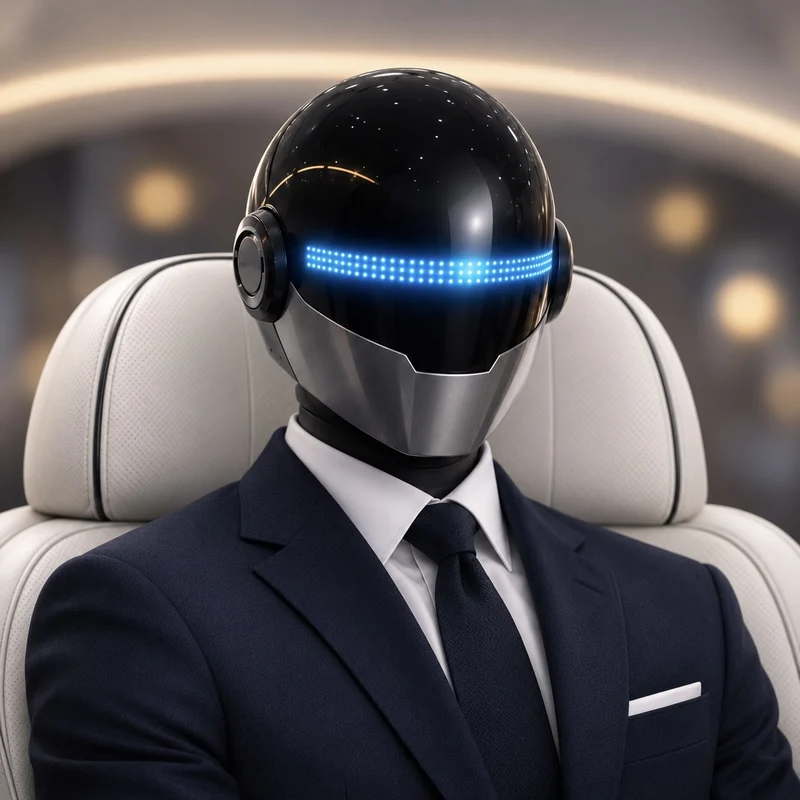
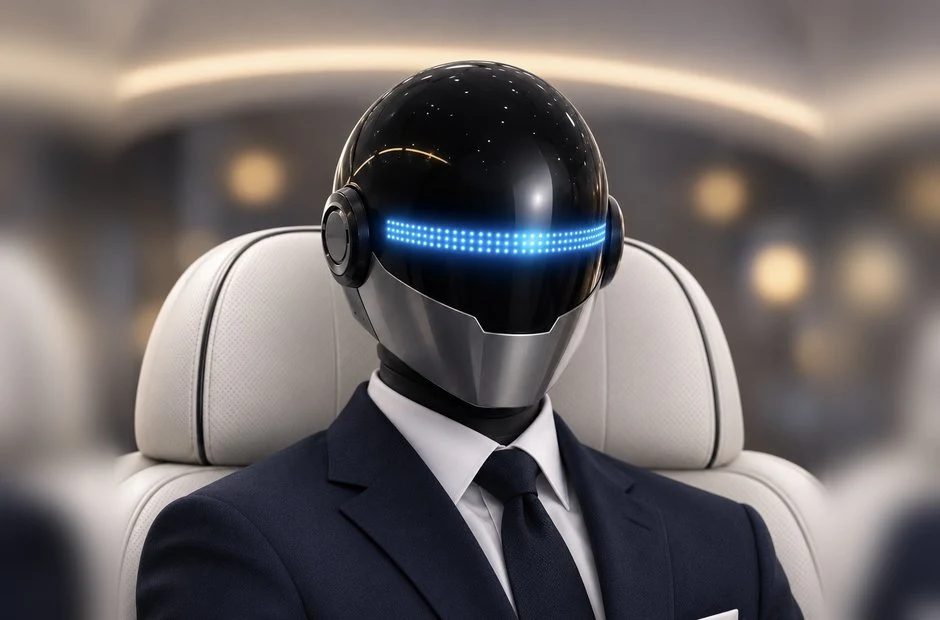
Agent call: back to horizontal frame, agent smaller inside it
Claude-Session: https://claude.ai/code/session_01BhYsySb1bmSKj6zxDYmtro

diff --git a/static/css/site.css b/static/css/site.css
@@ -102,13 +102,13 @@ button { font: inherit; color: inherit; background: none; border: 0; padding: 0;
 
 /* AI agent tile: a phone with a live chat rising from the bottom */
 .phone-wrap { display: flex; justify-content: center; align-items: flex-start; margin-top: 34px; }
-.phone { width: min(330px, 84vw); height: 700px; border-radius: 52px 52px 0 0; background: #fff; border: 11px solid #1d1d1f; border-bottom: 0; padding: 20px 14px; text-align: left; box-shadow: 0 30px 80px -30px rgba(0,0,0,.35); }
+.phone { width: min(330px, 84vw); height: 600px; border-radius: 52px 52px 0 0; background: #fff; border: 11px solid #1d1d1f; border-bottom: 0; padding: 20px 14px; text-align: left; box-shadow: 0 30px 80px -30px rgba(0,0,0,.35); }
 .ph-top { display: flex; gap: 10px; align-items: center; padding: 10px 6px 12px; border-bottom: 1px solid var(--line); margin-bottom: 14px; }
 .ph-av { width: 36px; height: 36px; border-radius: 50%; object-fit: cover; flex: none; }
-.ph-call { position: relative; aspect-ratio: 1 / 1; border-radius: 26px; overflow: hidden; background: #111; margin-bottom: 4px; }
+.ph-call { position: relative; aspect-ratio: 940 / 620; border-radius: 26px; overflow: hidden; background: #111; margin-bottom: 4px; }
 .ph-call img { width: 100%; height: 100%; object-fit: cover; animation: drift 14s ease-in-out infinite alternate; transform-origin: 50% 35%; }
 @keyframes drift { from { transform: scale(1); } to { transform: scale(1.03); } }
-.visor { position: absolute; left: 37%; top: 30%; width: 33%; height: 6.5%; border-radius: 50%; background: radial-gradient(closest-side, rgba(90,170,255,.85), rgba(40,120,255,0)); mix-blend-mode: screen; opacity: 0; }
+.visor { position: absolute; left: 41%; top: 35.2%; width: 23.5%; height: 5.8%; border-radius: 50%; background: radial-gradient(closest-side, rgba(90,170,255,.85), rgba(40,120,255,0)); mix-blend-mode: screen; opacity: 0; }
 .phone.play .visor { animation: talk 1.1s ease-in-out infinite; }
 @keyframes talk { 0%, 100% { opacity: .1; } 20% { opacity: .9; } 45% { opacity: .3; } 70% { opacity: .75; } }
 .live { position: absolute; left: 12px; top: 12px; display: flex; align-items: center; gap: 6px; padding: 4px 10px; border-radius: 99px; background: rgba(0,0,0,.55); color: #fff; font-size: 11px; font-weight: 600; -webkit-backdrop-filter: blur(8px); backdrop-filter: blur(8px); }
@@ -258,5 +258,5 @@ button { font: inherit; color: inherit; background: none; border: 0; padding: 0;
   *, *::before, *::after { animation-duration: .01ms !important; animation-delay: 0s !important; transition-duration: .01ms !important; }
   .js .rv { opacity: 1; transform: none; }
 }
-.tile.agents { height: 860px; }
-@media (min-width: 735px) { .tile.agents { height: 960px; } }
+.tile.agents { height: 780px; }
+@media (min-width: 735px) { .tile.agents { height: 900px; } }

diff --git a/index.html b/index.html
@@ -22,7 +22,7 @@
 <link rel="preconnect" href="https://fonts.googleapis.com">
 <link rel="preconnect" href="https://fonts.gstatic.com" crossorigin>
 <link rel="stylesheet" href="https://fonts.googleapis.com/css2?family=Inter:wght@400..700&display=swap">
-<link rel="stylesheet" href="/static/css/site.css?v=9506d124">
+<link rel="stylesheet" href="/static/css/site.css?v=79398556">
 </head>
 <body>
 <a class="skip" href="#main">Skip to content</a>
@@ -46,7 +46,7 @@
   <div class="t-txt"><h2>AI Agents</h2><p class="sub">Chat, voice and video. Always on.</p><p class="ctas"><a class="pill" href="#lineup">Learn more</a><a class="pill ol" href="#contact">Request a demo</a></p></div>
   <div class="t-media phone-wrap">
     <div class="phone" data-chat>
-      <div class="ph-call"><img src="/media/agent-call.webp" alt="The VERGHÉTHORN AI agent: a figure in a dark suit with a black helmet and a glowing blue visor" width="800" height="800"><span class="visor" aria-hidden="true"></span>
+      <div class="ph-call"><img src="/media/agent-call.webp" alt="The VERGHÉTHORN AI agent: a figure in a dark suit with a black helmet and a glowing blue visor" width="940" height="620"><span class="visor" aria-hidden="true"></span>
         <span class="live"><i></i>Live</span><span class="wave" aria-hidden="true"><i></i><i></i><i></i><i></i><i></i><i></i><i></i><i></i><i></i><i></i><i></i><i></i><i></i><i></i></span></div>
       <p class="ph-top"><img class="ph-av" src="/media/agent-av.webp" alt="" width="36" height="36"><span><b>VERGHÉTHORN Agent</b><small>AI agent · online</small></span></p>
       <ul class="ph-msgs"><li class="m u">Can you make a 30-second film for my coffee brand?</li><li class="m a">Of course. Tell me about your brand and your audience — I’ll prepare a concept.</li><li class="m u">Perfect. Let’s talk.</li><li class="m a typing" aria-hidden="true"><i></i><i></i><i></i></li></ul>
@@ -134,6 +134,6 @@
 <div class="warp" data-warp aria-hidden="true"><span class="warp-i"></span></div>
 
 <script type="application/ld+json">{"@context":"https://schema.org","@type":"Organization","name":"VERGHÉTHORN","url":"https://verghethorn.com","email":"verghethorn@gmail.com","sameAs":["https://www.instagram.com/verghethorn.studio","https://www.youtube.com/@verghethorn","https://www.tiktok.com/@verghethorn_official"],"description":"VERGHÉTHORN creates films, brand commercials and AI agents. Cinema, created with AI."}</script>
-<script type="module" src="/static/js/site.js?v=9506d124"></script>
+<script type="module" src="/static/js/site.js?v=79398556"></script>
 </body>
 </html>

diff --git a/404.html b/404.html
@@ -22,6 +22,6 @@
 <link rel="preconnect" href="https://fonts.googleapis.com">
 <link rel="preconnect" href="https://fonts.gstatic.com" crossorigin>
 <link rel="stylesheet" href="https://fonts.googleapis.com/css2?family=Inter:wght@400..700&display=swap">
-<link rel="stylesheet" href="/static/css/site.css?v=9506d124">
+<link rel="stylesheet" href="/static/css/site.css?v=79398556">
 </head>
 <body class="nf"><main class="nf-main"><p class="lbl">404</p><h1>Wrong scene.</h1><p class="lead">This page doesn’t exist.</p><p><a class="btn" href="/">Back to the start</a></p></main></body></html>

diff --git a/contact/index.html b/contact/index.html
@@ -23,6 +23,6 @@
 <link rel="preconnect" href="https://fonts.googleapis.com">
 <link rel="preconnect" href="https://fonts.gstatic.com" crossorigin>
 <link rel="stylesheet" href="https://fonts.googleapis.com/css2?family=Inter:wght@400..700&display=swap">
-<link rel="stylesheet" href="/static/css/site.css?v=9506d124">
+<link rel="stylesheet" href="/static/css/site.css?v=79398556">
 </head>
 <body><p style="padding:40px"><a href="/#contact">This page has moved.</a></p><script>location.replace("/#contact")</script></body></html>

diff --git a/links/index.html b/links/index.html
@@ -23,6 +23,6 @@
 <link rel="preconnect" href="https://fonts.googleapis.com">
 <link rel="preconnect" href="https://fonts.gstatic.com" crossorigin>
 <link rel="stylesheet" href="https://fonts.googleapis.com/css2?family=Inter:wght@400..700&display=swap">
-<link rel="stylesheet" href="/static/css/site.css?v=9506d124">
+<link rel="stylesheet" href="/static/css/site.css?v=79398556">
 </head>
 <body><p style="padding:40px"><a href="/#contact">This page has moved.</a></p><script>location.replace("/#contact")</script></body></html>

diff --git a/ru/contact/index.html b/ru/contact/index.html
@@ -23,6 +23,6 @@
 <link rel="preconnect" href="https://fonts.googleapis.com">
 <link rel="preconnect" href="https://fonts.gstatic.com" crossorigin>
 <link rel="stylesheet" href="https://fonts.googleapis.com/css2?family=Inter:wght@400..700&display=swap">
-<link rel="stylesheet" href="/static/css/site.css?v=9506d124">
+<link rel="stylesheet" href="/static/css/site.css?v=79398556">
 </head>
 <body><p style="padding:40px"><a href="/#contact">This page has moved.</a></p><script>location.replace("/#contact")</script></body></html>

diff --git a/ru/links/index.html b/ru/links/index.html
@@ -23,6 +23,6 @@
 <link rel="preconnect" href="https://fonts.googleapis.com">
 <link rel="preconnect" href="https://fonts.gstatic.com" crossorigin>
 <link rel="stylesheet" href="https://fonts.googleapis.com/css2?family=Inter:wght@400..700&display=swap">
-<link rel="stylesheet" href="/static/css/site.css?v=9506d124">
+<link rel="stylesheet" href="/static/css/site.css?v=79398556">
 </head>
 <body><p style="padding:40px"><a href="/#contact">This page has moved.</a></p><script>location.replace("/#contact")</script></body></html>

diff --git a/about/index.html b/about/index.html
@@ -23,6 +23,6 @@
 <link rel="preconnect" href="https://fonts.googleapis.com">
 <link rel="preconnect" href="https://fonts.gstatic.com" crossorigin>
 <link rel="stylesheet" href="https://fonts.googleapis.com/css2?family=Inter:wght@400..700&display=swap">
-<link rel="stylesheet" href="/static/css/site.css?v=9506d124">
+<link rel="stylesheet" href="/static/css/site.css?v=79398556">
 </head>
 <body><p style="padding:40px"><a href="/">This page has moved.</a></p><script>location.replace("/")</script></body></html>

diff --git a/approach/index.html b/approach/index.html
@@ -23,6 +23,6 @@
 <link rel="preconnect" href="https://fonts.googleapis.com">
 <link rel="preconnect" href="https://fonts.gstatic.com" crossorigin>
 <link rel="stylesheet" href="https://fonts.googleapis.com/css2?family=Inter:wght@400..700&display=swap">
-<link rel="stylesheet" href="/static/css/site.css?v=9506d124">
+<link rel="stylesheet" href="/static/css/site.css?v=79398556">
 </head>
 <body><p style="padding:40px"><a href="/">This page has moved.</a></p><script>location.replace("/")</script></body></html>

diff --git a/archive/index.html b/archive/index.html
@@ -23,6 +23,6 @@
 <link rel="preconnect" href="https://fonts.googleapis.com">
 <link rel="preconnect" href="https://fonts.gstatic.com" crossorigin>
 <link rel="stylesheet" href="https://fonts.googleapis.com/css2?family=Inter:wght@400..700&display=swap">
-<link rel="stylesheet" href="/static/css/site.css?v=9506d124">
+<link rel="stylesheet" href="/static/css/site.css?v=79398556">
 </head>
 <body><p style="padding:40px"><a href="/">This page has moved.</a></p><script>location.replace("/")</script></body></html>

diff --git a/archive/lab/index.html b/archive/lab/index.html
@@ -23,6 +23,6 @@
 <link rel="preconnect" href="https://fonts.googleapis.com">
 <link rel="preconnect" href="https://fonts.gstatic.com" crossorigin>
 <link rel="stylesheet" href="https://fonts.googleapis.com/css2?family=Inter:wght@400..700&display=swap">
-<link rel="stylesheet" href="/static/css/site.css?v=9506d124">
+<link rel="stylesheet" href="/static/css/site.css?v=79398556">
 </head>
 <body><p style="padding:40px"><a href="/">This page has moved.</a></p><script>location.replace("/")</script></body></html>

diff --git a/archive/living-shapes/index.html b/archive/living-shapes/index.html
@@ -23,6 +23,6 @@
 <link rel="preconnect" href="https://fonts.googleapis.com">
 <link rel="preconnect" href="https://fonts.gstatic.com" crossorigin>
 <link rel="stylesheet" href="https://fonts.googleapis.com/css2?family=Inter:wght@400..700&display=swap">
-<link rel="stylesheet" href="/static/css/site.css?v=9506d124">
+<link rel="stylesheet" href="/static/css/site.css?v=79398556">
 </head>
 <body><p style="padding:40px"><a href="/">This page has moved.</a></p><script>location.replace("/")</script></body></html>
